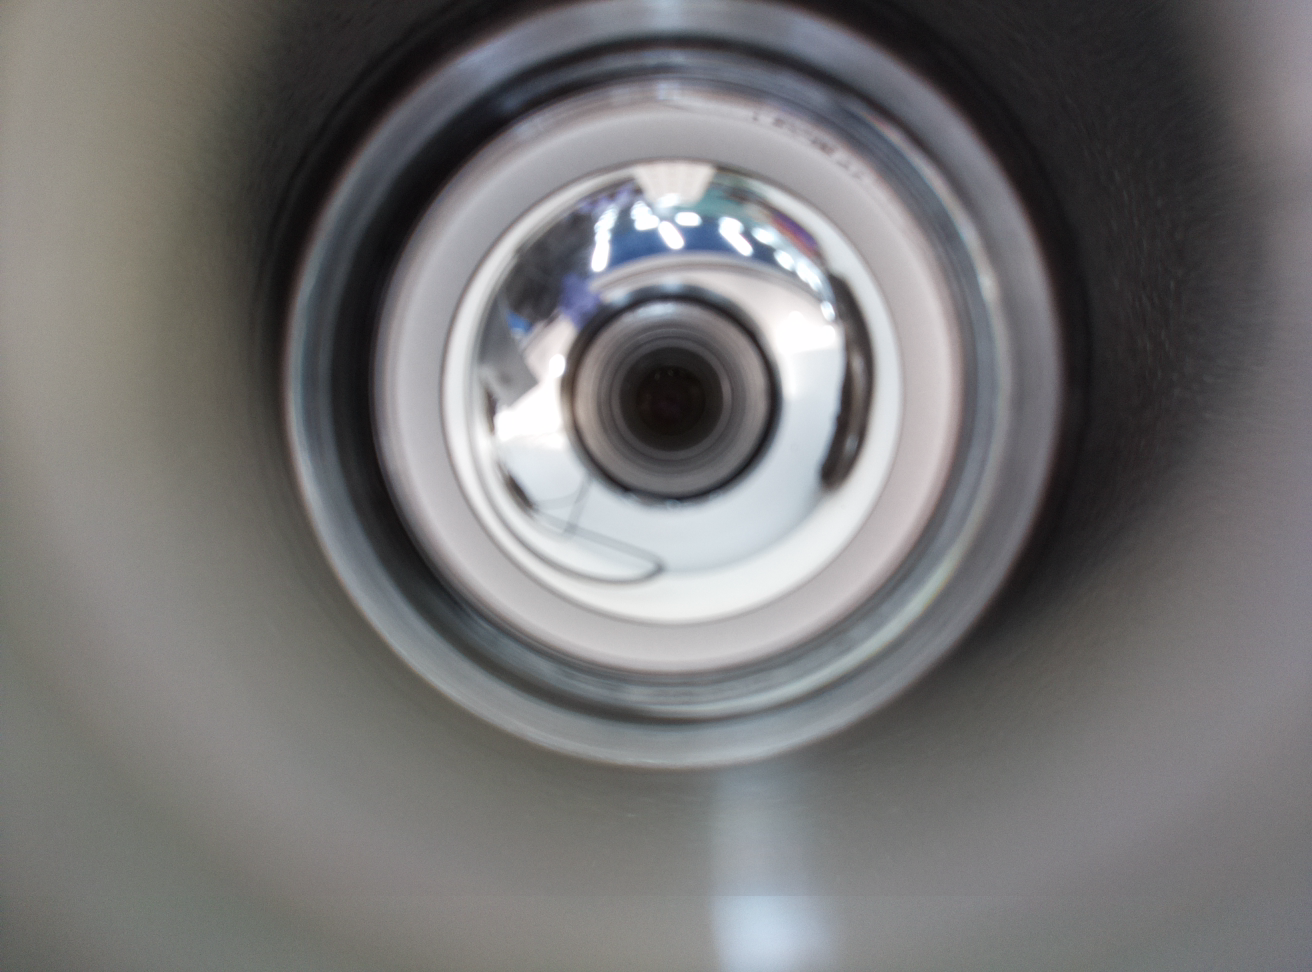
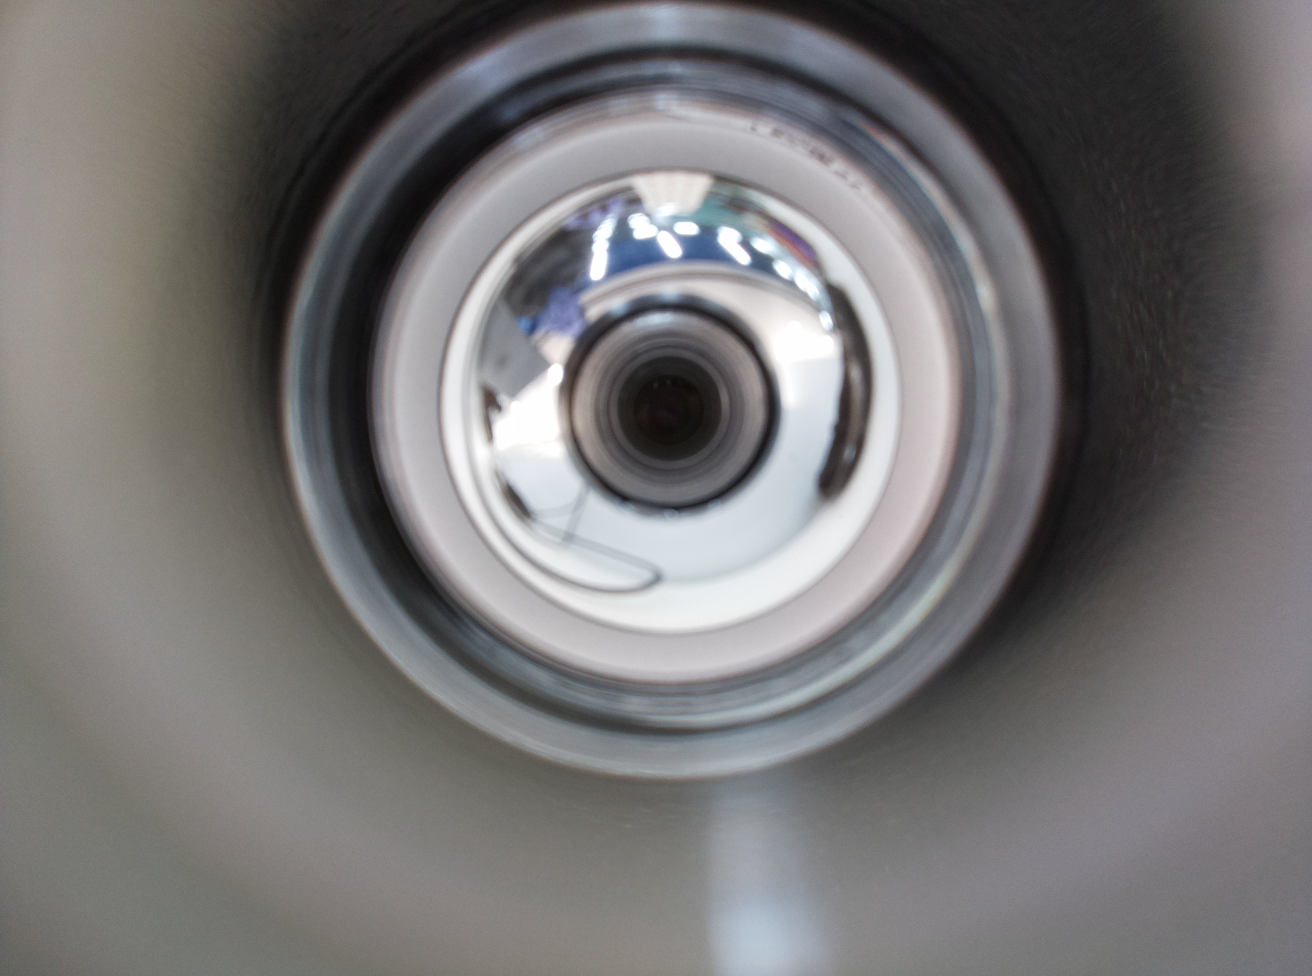
Update

diff --git a/dewarp_mapping/get_im.py b/dewarp_mapping/get_im.py
@@ -6,7 +6,7 @@ import time
 
 # Setup camera
 camera = PiCamera()
-camera.resolution = (1312,972)
+camera.resolution = (1312,976)
 camera.framerate = 30
 #Wait
 time.sleep(1.0)
